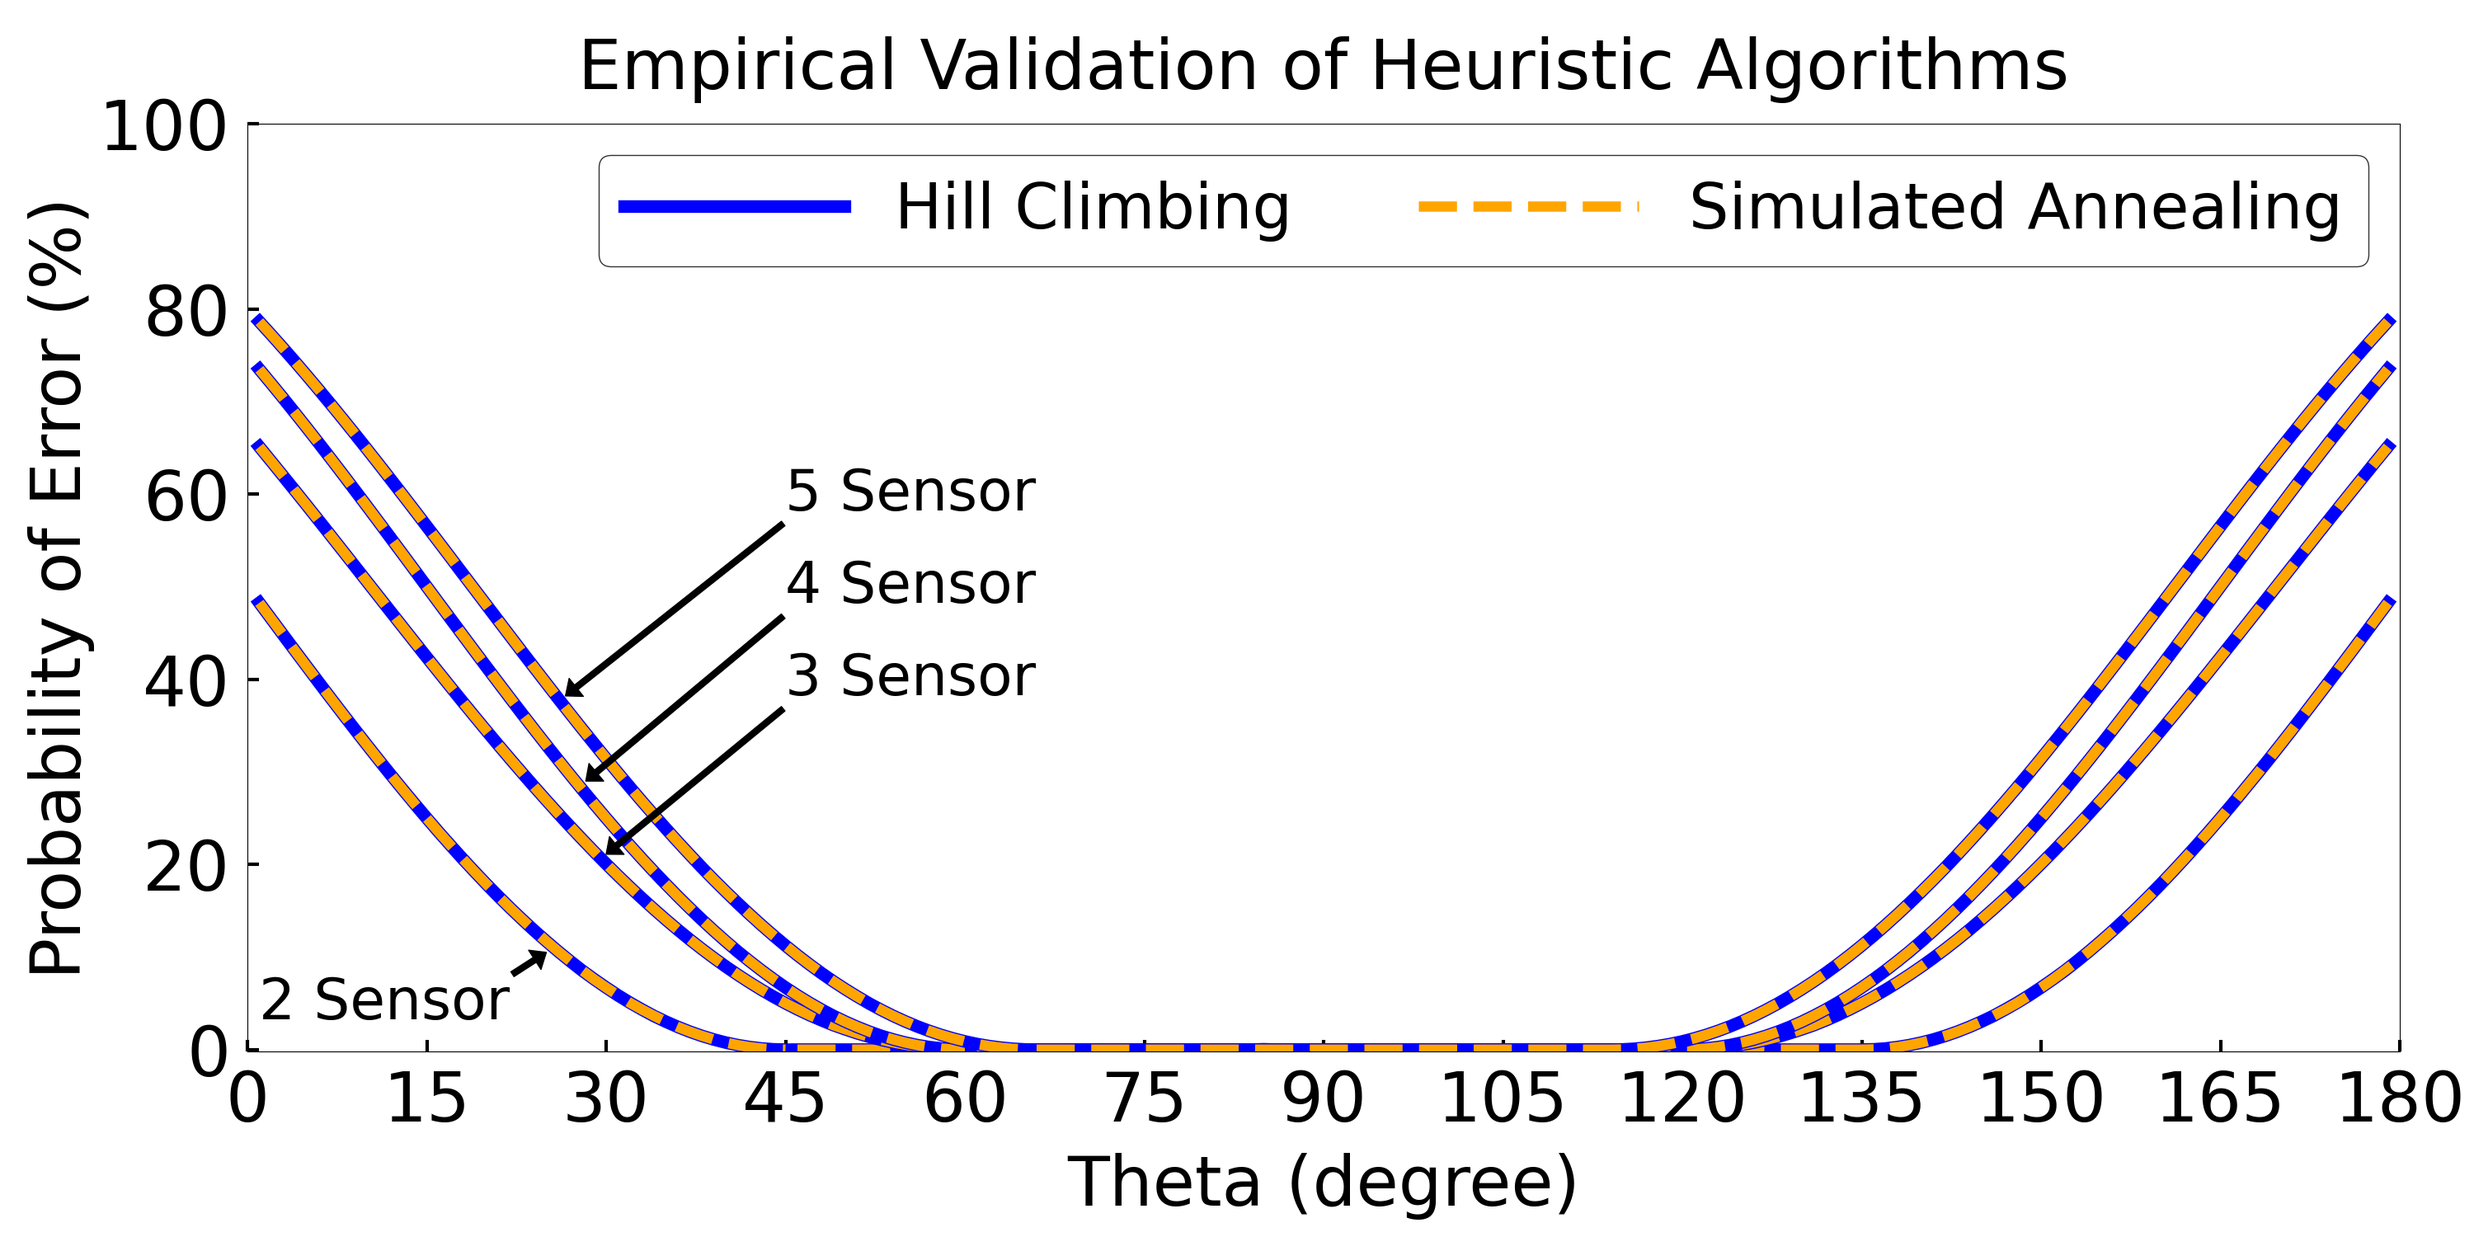
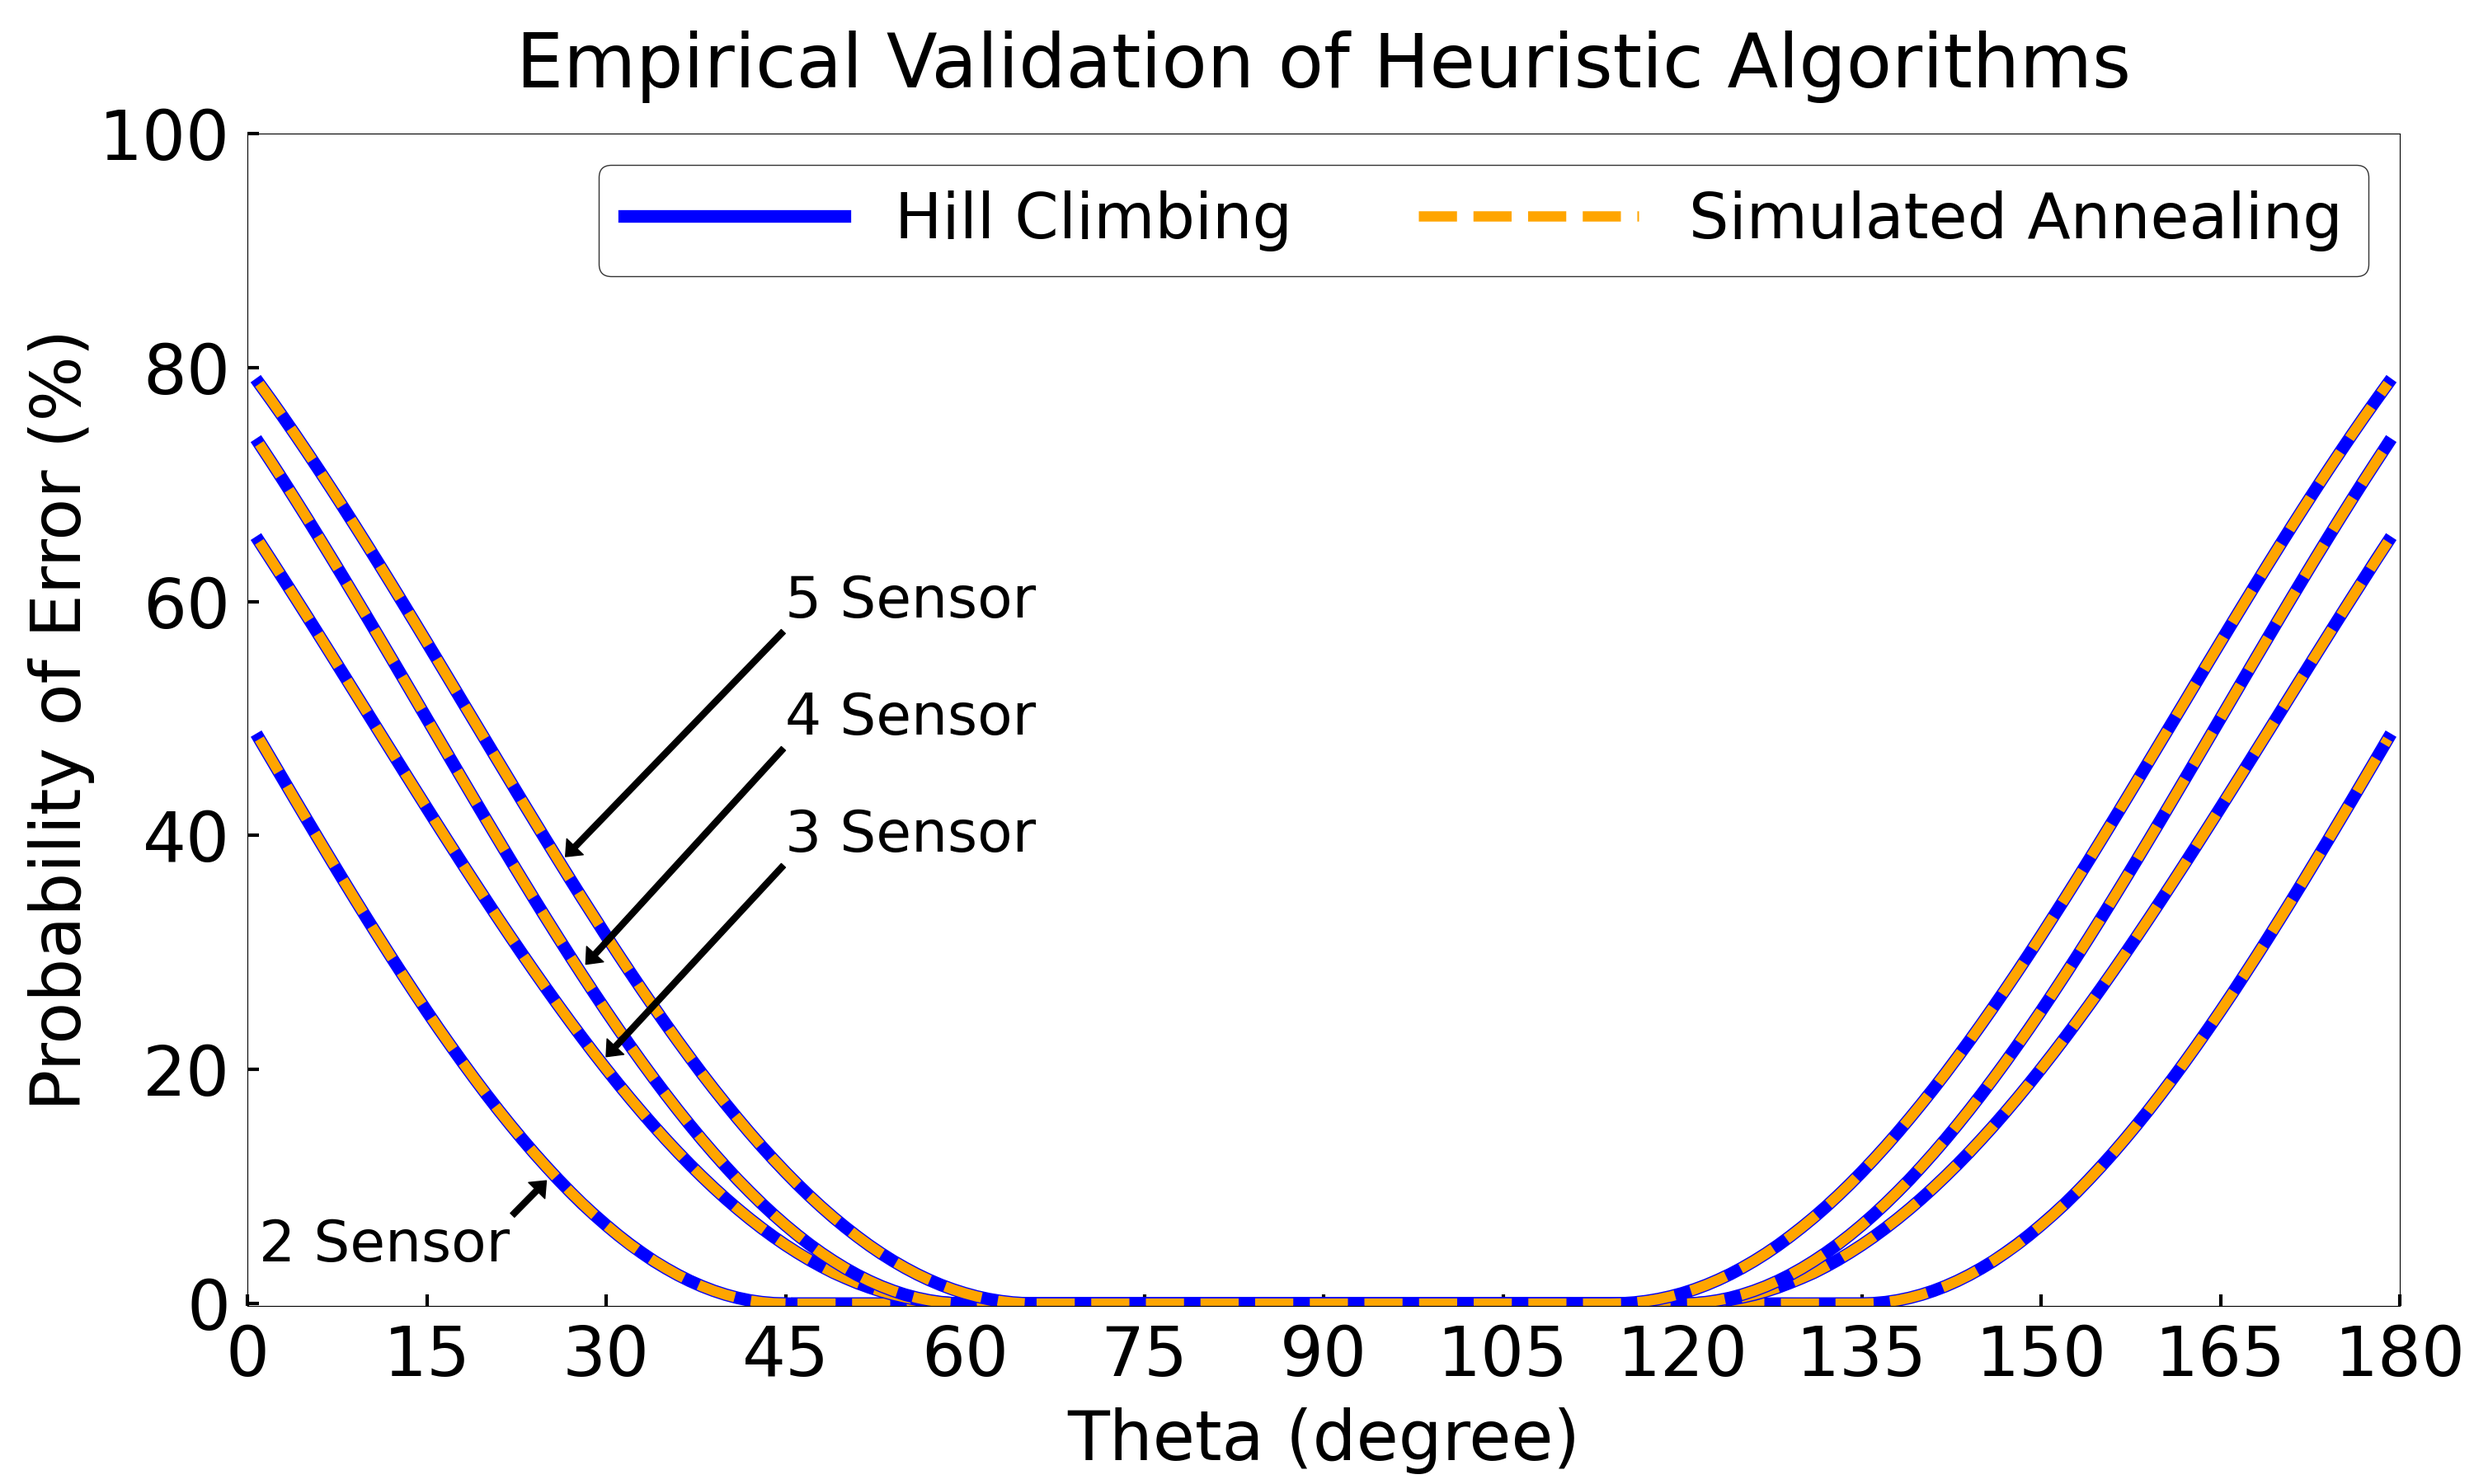
update plots

diff --git a/plot2.py b/plot2.py
@@ -121,8 +121,8 @@ class Plot:
         
         # step 2: plotting
 
-        fig, ax = plt.subplots(figsize=(30, 15))
-        fig.subplots_adjust(left=0.1, right=0.97, top=0.9, bottom=0.15)
+        fig, ax = plt.subplots(figsize=(30, 18))
+        fig.subplots_adjust(left=0.1, right=0.97, top=0.91, bottom=0.12)
 
         ax.plot(X2[:45], Y2[methods[0]][:45], linestyle=Plot.LINE_STYLE[methods[0]], color=Plot.COLOR[methods[0]], linewidth=11, label=Plot.METHOD[methods[0]])
         ax.plot(X2[45:], Y2[methods[0]][45:], linestyle=Plot.LINE_STYLE[methods[0]], color=Plot.COLOR[methods[0]], linewidth=11)
@@ -157,7 +157,7 @@ class Plot:
         # ax.vlines(x=60, ymin=0.2, ymax=1, linestyles='dotted', colors='black', )
         ax.tick_params(axis='x', direction='in', length=10, width=3, pad=15)
         ax.tick_params(axis='y', direction='in', length=10, width=3, pad=15)
-        ax.set_title('Empirical Validation of Heuristic Algorithms', fontsize=60, pad=30)
+        ax.set_title('Empirical Validation of Heuristic Algorithms', fontsize=65, pad=40)
         ax.legend(ncol=2, loc='upper right',  fontsize=55, handlelength=3.5, edgecolor='black')
         ax.set_xlabel('Theta (degree)', labelpad=15)
         ax.set_ylabel('Probability of Error (%)', fontsize=60)
@@ -464,8 +464,8 @@ class Plot:
         # step 2: plotting
 
         methods = ['Hill climbing', 'Theorem']
-        fig, ax = plt.subplots(figsize=(30, 15))
-        fig.subplots_adjust(left=0.1, right=0.97, top=0.9, bottom=0.15)
+        fig, ax = plt.subplots(figsize=(30, 18))
+        fig.subplots_adjust(left=0.1, right=0.97, top=0.91, bottom=0.12)
 
         ax.plot(X2[:45], Y2[methods[0]][:45], linestyle=Plot.LINE_STYLE[methods[0]], color=Plot.COLOR[methods[0]], linewidth=11, label=Plot.METHOD[methods[0]])
         ax.plot(X2[45:], Y2[methods[0]][45:], linestyle=Plot.LINE_STYLE[methods[0]], color=Plot.COLOR[methods[0]], linewidth=11)
@@ -500,7 +500,7 @@ class Plot:
         # ax.vlines(x=60, ymin=0.2, ymax=1, linestyles='dotted', colors='black', )
         ax.tick_params(axis='x', direction='in', length=10, width=3, pad=15)
         ax.tick_params(axis='y', direction='in', length=10, width=3, pad=15)
-        ax.set_title('Empirical Validation of Conjecture', fontsize=60, pad=30)
+        ax.set_title('Empirical Validation of Conjecture', fontsize=65, pad=40)
         ax.legend(ncol=2, loc='upper right',  fontsize=55, handlelength=3.5, edgecolor='black')
         ax.set_xlabel('Theta (degree)', labelpad=15)
         ax.set_ylabel('Probability of Error (%)', fontsize=60)
